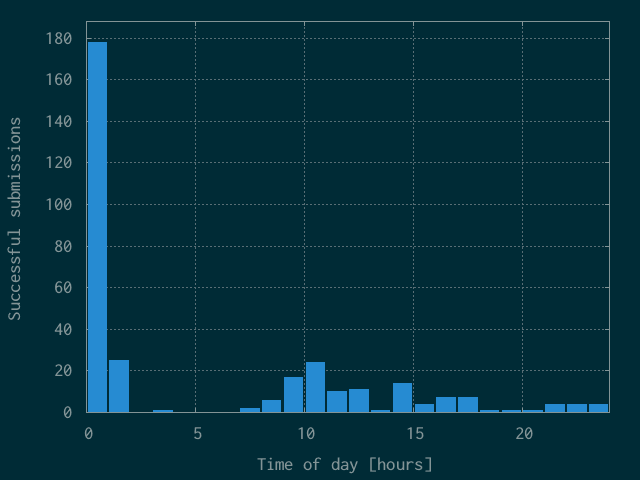
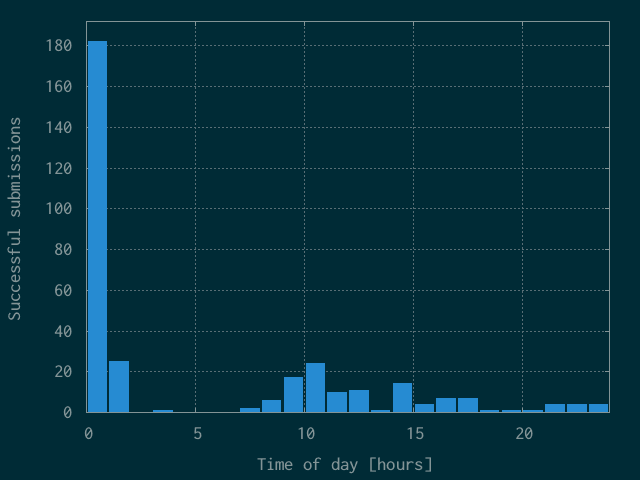
Update rankings

diff --git a/docs/2017/local_score.html b/docs/2017/local_score.html
@@ -19,32 +19,32 @@
       <tr>
         <td>1</td>
         <td>User #197423</td>
-        <td>532</td>
+        <td>554</td>
       </tr>
       <tr>
         <td>2</td>
         <td>Michael Tardibuono</td>
-        <td>515</td>
+        <td>534</td>
       </tr>
       <tr>
         <td>3</td>
+        <td>Andrew Walker</td>
+        <td>502</td>
+      </tr>
+      <tr>
+        <td>4</td>
         <td>vincentr21</td>
         <td>496</td>
       </tr>
       <tr>
-        <td>4</td>
-        <td>Andrew Walker</td>
-        <td>481</td>
-      </tr>
-      <tr>
         <td>5</td>
-        <td>bewuethr</td>
-        <td>477</td>
+        <td>Ricky Kwan</td>
+        <td>478</td>
       </tr>
       <tr>
         <td>6</td>
-        <td>Ricky Kwan</td>
-        <td>458</td>
+        <td>bewuethr</td>
+        <td>477</td>
       </tr>
       <tr>
         <td>7</td>
@@ -95,6 +95,6 @@
   </div>
   <p>Raw text file: <a href="local_score.txt">local_score.txt</a></p>
   <p><a href="index.html">Return to index</a></p>
-  <p class="tstamp">Last updated Thu Dec 14 00:00:10 EST 2017</p>
+  <p class="tstamp">Last updated Thu Dec 14 00:20:11 EST 2017</p>
 </body>
 </html>

diff --git a/docs/2017/day14star1.html b/docs/2017/day14star1.html
@@ -18,10 +18,38 @@
         <th>Local score</th>
         <th>Mod. local score</th>
       </tr>
+      <tr>
+        <td>1</td>
+        <td>User #197423</td>
+        <td>0:15:29</td>
+        <td>22</td>
+        <td>4</td>
+      </tr>
+      <tr>
+        <td>2</td>
+        <td>Andrew Walker</td>
+        <td>0:17:33</td>
+        <td>21</td>
+        <td>3</td>
+      </tr>
+      <tr>
+        <td>3</td>
+        <td>Ricky Kwan</td>
+        <td>0:17:37</td>
+        <td>20</td>
+        <td>2</td>
+      </tr>
+      <tr>
+        <td>4</td>
+        <td>Michael Tardibuono</td>
+        <td>0:18:34</td>
+        <td>19</td>
+        <td>1</td>
+      </tr>
     </table>
   </div>
   <p>Raw text file: <a href="day14star1.txt">day14star1.txt</a></p>
   <p><a href="index.html">Return to index</a></p>
-  <p class="tstamp">Last updated Thu Dec 14 00:00:09 EST 2017</p>
+  <p class="tstamp">Last updated Thu Dec 14 00:20:10 EST 2017</p>
 </body>
 </html>

diff --git a/docs/2017/mod_local_score.html b/docs/2017/mod_local_score.html
@@ -19,12 +19,12 @@
       <tr>
         <td>1</td>
         <td>User #197423</td>
-        <td>282</td>
+        <td>286</td>
       </tr>
       <tr>
         <td>2</td>
         <td>Michael Tardibuono</td>
-        <td>265</td>
+        <td>266</td>
       </tr>
       <tr>
         <td>3</td>
@@ -34,7 +34,7 @@
       <tr>
         <td>4</td>
         <td>Andrew Walker</td>
-        <td>231</td>
+        <td>234</td>
       </tr>
       <tr>
         <td>5</td>
@@ -44,7 +44,7 @@
       <tr>
         <td>6</td>
         <td>Ricky Kwan</td>
-        <td>208</td>
+        <td>210</td>
       </tr>
       <tr>
         <td>7</td>
@@ -95,6 +95,6 @@
   </div>
   <p>Raw text file: <a href="mod_local_score.txt">mod_local_score.txt</a></p>
   <p><a href="index.html">Return to index</a></p>
-  <p class="tstamp">Last updated Thu Dec 14 00:00:10 EST 2017</p>
+  <p class="tstamp">Last updated Thu Dec 14 00:20:11 EST 2017</p>
 </body>
 </html>

diff --git a/docs/2017/index.html b/docs/2017/index.html
@@ -143,7 +143,7 @@
     </table>
     <table id="right">
       <tr>
-        <td class="day"><sup>*</sup>Day 14</td>
+        <td class="day">Day 14</td>
         <td>
           <a href="day14star1.html">Star 1</a>
         </td>
@@ -271,6 +271,6 @@
       <p>Suggest more stats in the <a href="https://github.com/bewuethr/advent_of_code/issues">issue tracker</a></p>
     </li>
   </ul>
-  <p class="tstamp">Last updated Thu Dec 14 00:00:10 EST 2017</p>
+  <p class="tstamp">Last updated Thu Dec 14 00:20:11 EST 2017</p>
 </body>
 </html>

diff --git a/docs/2017/day01star1.html b/docs/2017/day01star1.html
@@ -127,6 +127,6 @@
   </div>
   <p>Raw text file: <a href="day01star1.txt">day01star1.txt</a></p>
   <p><a href="index.html">Return to index</a></p>
-  <p class="tstamp">Last updated Thu Dec 14 00:00:09 EST 2017</p>
+  <p class="tstamp">Last updated Thu Dec 14 00:20:10 EST 2017</p>
 </body>
 </html>

diff --git a/docs/2017/day01star2.html b/docs/2017/day01star2.html
@@ -143,6 +143,6 @@
   </div>
   <p>Raw text file: <a href="day01star2.txt">day01star2.txt</a></p>
   <p><a href="index.html">Return to index</a></p>
-  <p class="tstamp">Last updated Thu Dec 14 00:00:09 EST 2017</p>
+  <p class="tstamp">Last updated Thu Dec 14 00:20:10 EST 2017</p>
 </body>
 </html>

diff --git a/docs/2017/day02star1.html b/docs/2017/day02star1.html
@@ -127,6 +127,6 @@
   </div>
   <p>Raw text file: <a href="day02star1.txt">day02star1.txt</a></p>
   <p><a href="index.html">Return to index</a></p>
-  <p class="tstamp">Last updated Thu Dec 14 00:00:09 EST 2017</p>
+  <p class="tstamp">Last updated Thu Dec 14 00:20:10 EST 2017</p>
 </body>
 </html>

diff --git a/docs/2017/day02star2.html b/docs/2017/day02star2.html
@@ -143,6 +143,6 @@
   </div>
   <p>Raw text file: <a href="day02star2.txt">day02star2.txt</a></p>
   <p><a href="index.html">Return to index</a></p>
-  <p class="tstamp">Last updated Thu Dec 14 00:00:09 EST 2017</p>
+  <p class="tstamp">Last updated Thu Dec 14 00:20:10 EST 2017</p>
 </body>
 </html>

diff --git a/docs/2017/day03star1.html b/docs/2017/day03star1.html
@@ -127,6 +127,6 @@
   </div>
   <p>Raw text file: <a href="day03star1.txt">day03star1.txt</a></p>
   <p><a href="index.html">Return to index</a></p>
-  <p class="tstamp">Last updated Thu Dec 14 00:00:09 EST 2017</p>
+  <p class="tstamp">Last updated Thu Dec 14 00:20:10 EST 2017</p>
 </body>
 </html>

diff --git a/docs/2017/day03star2.html b/docs/2017/day03star2.html
@@ -143,6 +143,6 @@
   </div>
   <p>Raw text file: <a href="day03star2.txt">day03star2.txt</a></p>
   <p><a href="index.html">Return to index</a></p>
-  <p class="tstamp">Last updated Thu Dec 14 00:00:09 EST 2017</p>
+  <p class="tstamp">Last updated Thu Dec 14 00:20:10 EST 2017</p>
 </body>
 </html>

diff --git a/docs/2017/day04star1.html b/docs/2017/day04star1.html
@@ -127,6 +127,6 @@
   </div>
   <p>Raw text file: <a href="day04star1.txt">day04star1.txt</a></p>
   <p><a href="index.html">Return to index</a></p>
-  <p class="tstamp">Last updated Thu Dec 14 00:00:09 EST 2017</p>
+  <p class="tstamp">Last updated Thu Dec 14 00:20:10 EST 2017</p>
 </body>
 </html>

diff --git a/docs/2017/day04star2.html b/docs/2017/day04star2.html
@@ -143,6 +143,6 @@
   </div>
   <p>Raw text file: <a href="day04star2.txt">day04star2.txt</a></p>
   <p><a href="index.html">Return to index</a></p>
-  <p class="tstamp">Last updated Thu Dec 14 00:00:09 EST 2017</p>
+  <p class="tstamp">Last updated Thu Dec 14 00:20:10 EST 2017</p>
 </body>
 </html>
